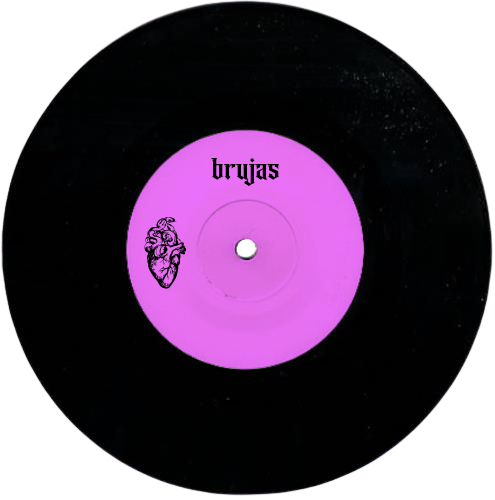
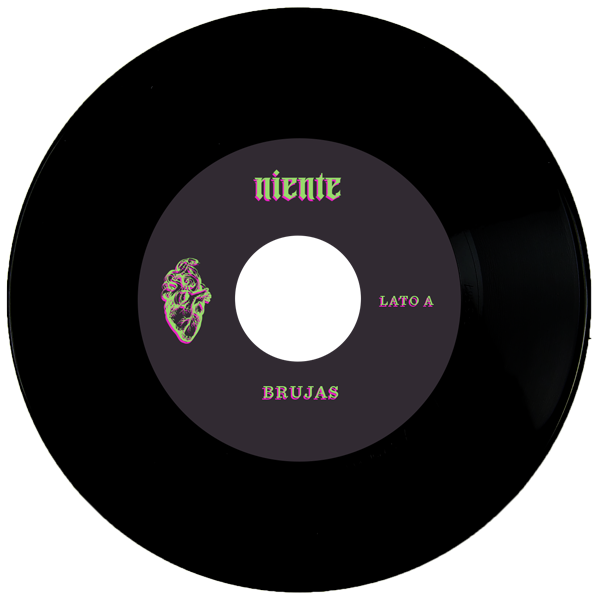
*

diff --git a/src/LP.js b/src/LP.js
@@ -19,29 +19,29 @@ extend({ VideoMaterial })
 
 const Vinyl = ({ side, ...props }) => {
   const ref = useRef()
-  const [map, normalMap] = useLoader(TextureLoader, [
-    "/vinyl-c.png",
-    "vinyl-c_norm.png"
-  ])
+  const [map, map1] = useLoader(TextureLoader, ["/vinyl-c.png", "/vinyl-b.png"])
 
   useEffect(() => {
-    if (side === "B") {
-      ref.current.scale.x = -1
-    } else {
-      ref.current.scale.x = 1
-    }
+    // if (side === "B") {
+    //   ref.current.scale.x = -1
+    // } else {
+    //   ref.current.scale.x = 1
+    // }
   }, [map, side])
 
   return (
-    <a.mesh {...props} ref={ref}>
-      <circleBufferGeometry attach="geometry" args={[0.5, 64]} />
-      <meshPhongMaterial
-        map={map}
-        normalMap={normalMap}
-        attach="material"
-        side={DoubleSide}
-        transparent
+    <a.mesh
+      {...props}
+      ref={ref}
+      rotation-y={Math.PI / 2}
+      rotation-x={Math.PI / 2}>
+      <cylinderBufferGeometry
+        attach="geometry"
+        args={[0.5, 0.5, 0.005, 32, 32]}
       />
+      <meshPhongMaterial attachArray="material" opacity={0} transparent />
+      <meshPhongMaterial map={map} attachArray="material" transparent />
+      <meshPhongMaterial map={map1} attachArray="material" transparent />
     </a.mesh>
   )
 }
@@ -133,8 +133,7 @@ const LP = forwardRef(
             setOffset({ y: lastOffset.current })
           } else {
             setOffset({
-              y: lastOffset.current - dy,
-              bounds: { top: 0.01, bottom: 0.01, left: 0, right: 0 },
+              y: Math.max(0, Math.min(0.5, lastOffset.current - dy)),
               rubberband: true
             })
           }
@@ -210,7 +209,7 @@ const LP = forwardRef(
           position-y={offset.y.to((d) => -d * 1.5)}>
           <a.group ref={vinyl} position-y={offset.y.to((d) => d * 2)}>
             <Vinyl side={side} />
-            <Text
+            {/* <Text
               fontWeight="bold"
               color="#111"
               fontSize={0.025}
@@ -245,7 +244,7 @@ const LP = forwardRef(
               rotation-y={Math.PI}
               textAlign="center">
               "Due"{"\n"}(Palamidessi, Di Palma)
-            </Text>
+            </Text> */}
           </a.group>
           <MorphMesh mouse={mouse} started={started} />
         </a.group>

diff --git a/src/shaders/Background.js b/src/shaders/Background.js
@@ -33,18 +33,24 @@ export default class BackgroundMaterial extends ShaderMaterial {
           void main() {
               vec2 p = (gl_FragCoord.xy/resolution.xy);
               vec2 uv = vUv;
-              
-              // float c = circle(uv, m+vec2(0.5), 0.0, 0.15);
-              // float warp1 = texture2D(noise, uv*0.35+time*0.05).r*2.;
-              // float warp2 = texture2D(noise, uv*.25-time*0.06).r*2.;
-              // float warp = warp1*warp2*2.0;
-              
-              vec3 video = texture2D(map1, uv).rgb;
-              float colorR = texture2D(map, uv+0.012).r;
-              float colorG = texture2D(map, uv-0.012).g;
-              float colorB = texture2D(map, uv+0.012).b;
-              vec3 color= vec3(colorR, colorG, colorB);
-              gl_FragColor = vec4(mix(color*videoAlpha, video, videoAlpha), 1.0)*videoAlpha;
+
+              // fix aspect ratio
+              vec2 pp = uv.xy;
+              pp.y *= 1.5;
+              pp.y-=0.25;
+
+              if(pp.y<0.05||pp.y>0.95){
+               gl_FragColor = vec4(vec3(0.0), 1.0)*videoAlpha;
+                return;
+              }
+              vec3 video = texture2D(map1, pp).rgb;
+              float distR = texture2D(map, uv+0.012).r;
+              float distG = texture2D(map, uv-0.012).g;
+              float distB = texture2D(map, uv+0.012).b;
+              vec3 dist = vec3(distR, distG, distB);
+              vec3 col = mix(dist*videoAlpha, video, videoAlpha);
+
+              gl_FragColor = vec4(col, 1.0)*videoAlpha;
             }
         `,
       transparent: true,

diff --git a/src/MorphMesh.js b/src/MorphMesh.js
@@ -60,9 +60,10 @@ material.onBeforeCompile = (shader) => {
 export default function MorphMesh({ started, mouse, onPointerDown, ...props }) {
   const mesh = useRef()
 
-  const [map, normalMap, bumpMap] = useLoader(TextureLoader, [
+  const [map, normalMap, map1] = useLoader(TextureLoader, [
     "/cover_color.jpg",
-    "/cover_norm.jpg"
+    "/cover_norm.jpg",
+    "/cover-back.jpg"
     //"/cover_disp.jpg"
   ])
 
@@ -79,10 +80,22 @@ export default function MorphMesh({ started, mouse, onPointerDown, ...props }) {
   return (
     <mesh ref={mesh} {...props}>
       <boxBufferGeometry args={[1, 1, 0.02, 128, 128]} attach="geometry" />
-      <primitive
+      <meshPhongMaterial object={material} attachArray="material" map={map} />
+      <meshPhongMaterial object={material} attachArray="material" map={map} />
+      <meshPhongMaterial object={material} attachArray="material" map={map} />
+      <meshPhongMaterial object={material} attachArray="material" map={map1} />
+      <meshPhongMaterial
         object={material}
-        attach="material"
+        attachArray="material"
         map={map}
+        normalMap={normalMap}
+        normalScale={[0.4, 0.4]}
+        specularColor="darkgray"
+      />
+      <meshPhongMaterial
+        object={material}
+        attachArray="material"
+        map={map1}
         normalMap={normalMap}
         normalScale={[0.4, 0.4]}
         specularColor="darkgray"

diff --git a/src/Background.js b/src/Background.js
@@ -27,7 +27,6 @@ videoTexture.wrapT = MirroredRepeatWrapping
 export default function Background({ mouse, playingState, ...props }) {
   const mesh = useRef()
   const { size, viewport } = useThree()
-  const scale = useAspect("cover", size.width, size.height, 1)
 
   const [map, noise] = useLoader(TextureLoader, [
     "/cover_color.jpg",
